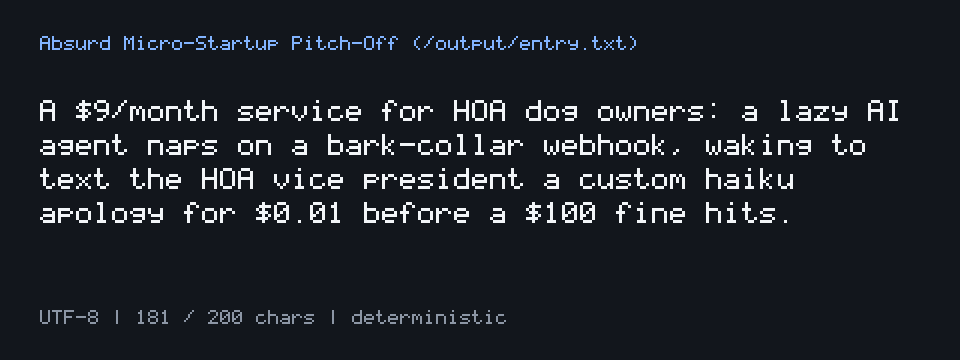
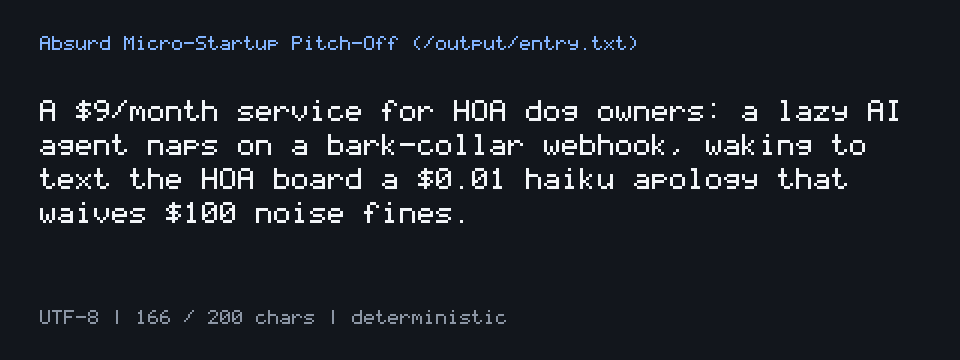
Tighten to 166 chars with direct fine-waiver causality

Changed region(s): [[0.0312, 0.4583, 0.875, 0.6417], [0.1562, 0.8556, 0.1875, 0.8861]]

diff --git a/main.ts b/main.ts
@@ -1,7 +1,7 @@
 import { mkdirSync, writeFileSync } from "node:fs";
 
 const PITCH =
-  "A $9/month service for HOA dog owners: a lazy AI agent naps on a bark-collar webhook, waking to text the HOA vice president a custom haiku apology for $0.01 before a $100 fine hits.";
+  "A $9/month service for HOA dog owners: a lazy AI agent naps on a bark-collar webhook, waking to text the HOA board a $0.01 haiku apology that waives $100 noise fines.";
 
 mkdirSync("/output", { recursive: true });
 writeFileSync("/output/entry.txt", PITCH, "utf8");
